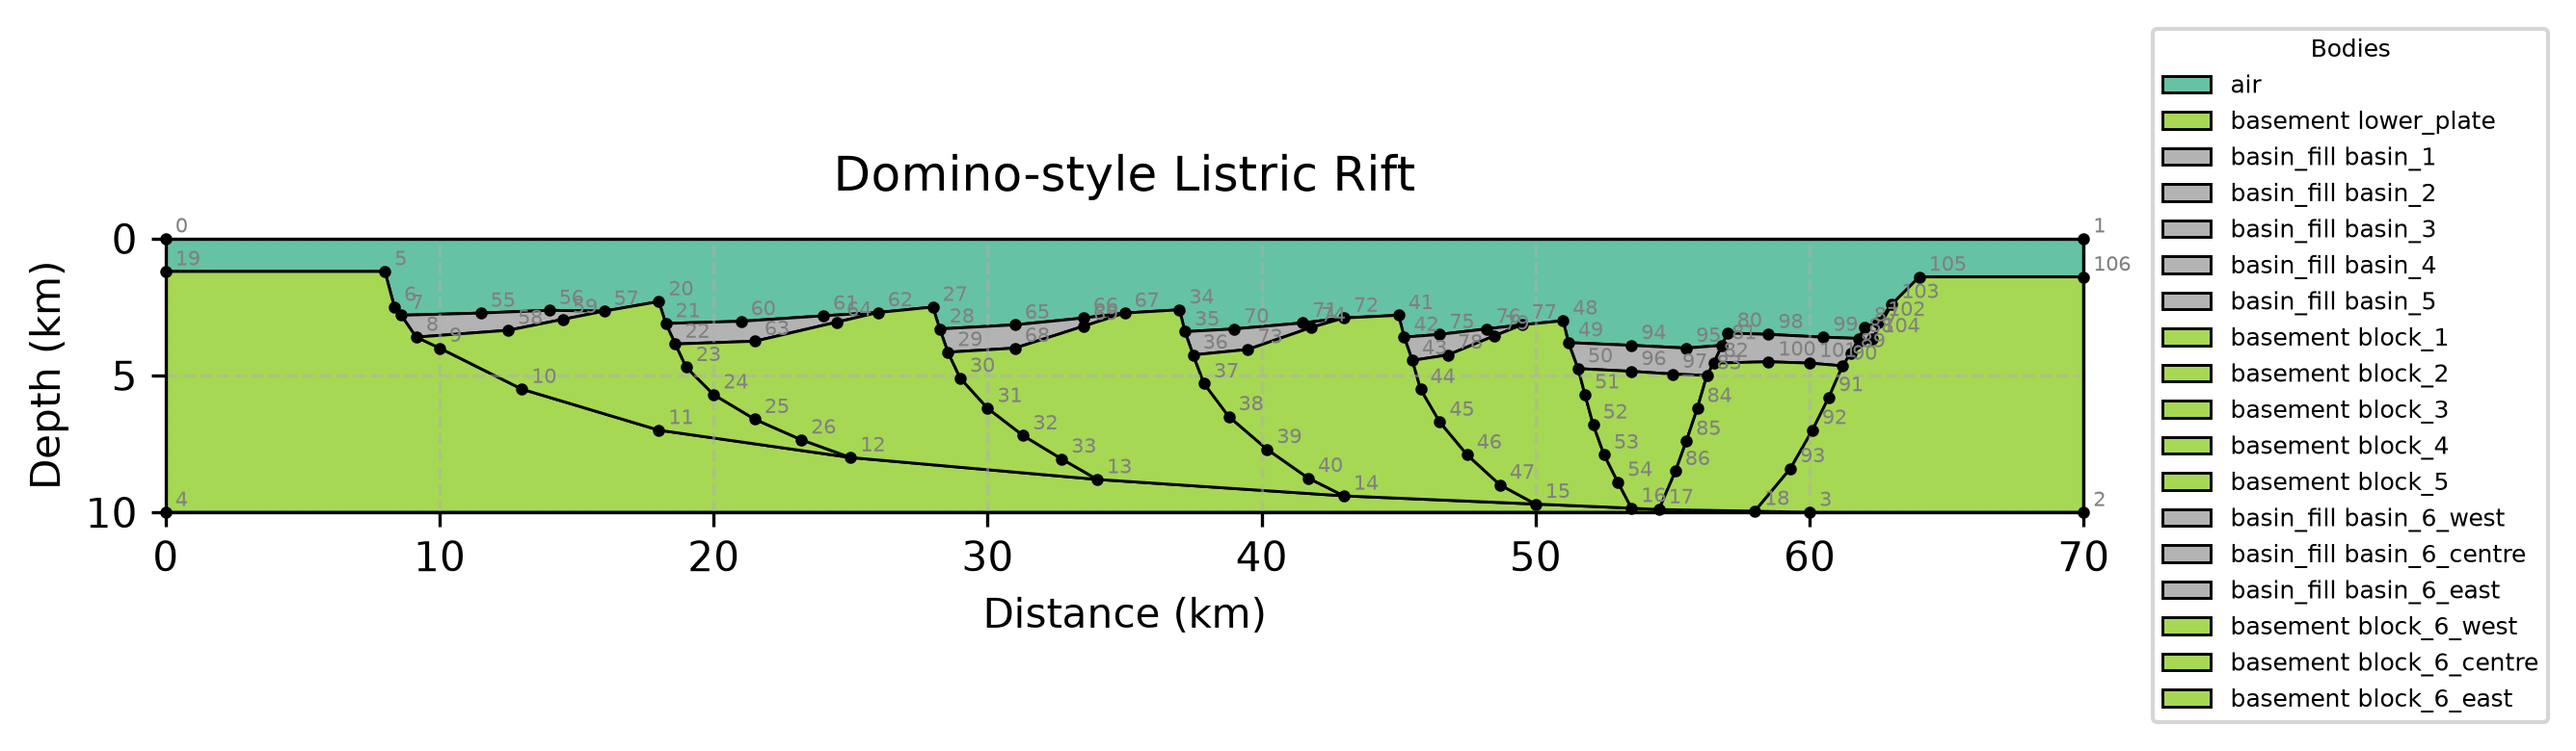
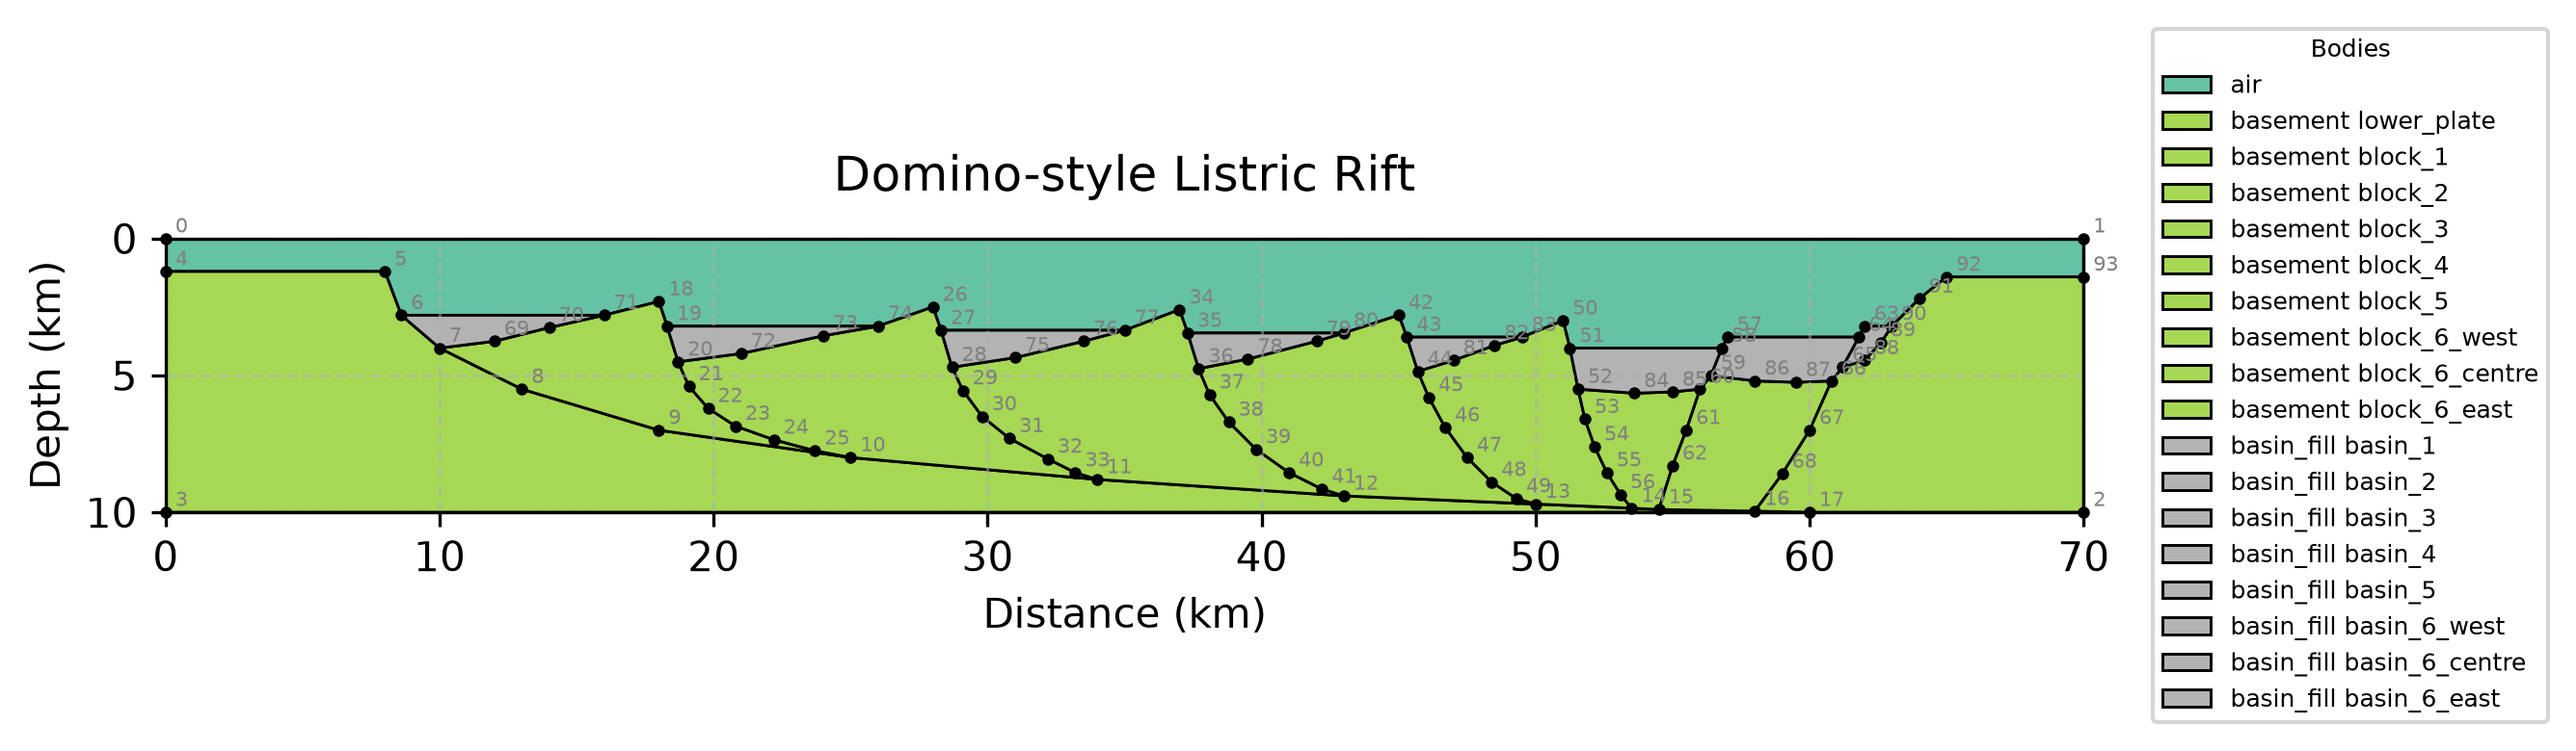
updated description of domino rift example

diff --git a/templates.py b/templates.py
@@ -543,19 +543,20 @@ This is a structural-block diagram containing crystalline basement, local syn-ri
 - From x = 8 to about 51 km, make five successive rotated range blocks. Each block top rises gently to the right, then steps downward across the next east-dipping normal fault. This repeated asymmetric sawtooth geometry is essential: gentle rightward-rising block tops alternate with steep fault scarps.
 - Put approximate synthetic-fault surface traces at x = 18, 28, 37, 45, and 51 km. Each hanging wall on the right is downthrown by about 0.7-1.0 km at the surface relative to the footwall on the left.
 - Keep the central sawtooth surface mostly between z = -2.2 and z = -3.6 km. The left breakaway plateau and far-right plateau must be distinctly higher than the central rift floor.
-- From x = 51 to 63 km, form one broad, low half-graben basin with a gently irregular floor near z = -3.2 to -4.0 km. The two antithetic faults cut this basin.
+- From x = 51 to 63 km, form one broad, low half-graben basin whose sediment surface consists of horizontal, fault-offset segments near z = -3.2 to -4.0 km. The two antithetic faults cut this basin.
 - East of x = 63 km, raise the basement surface relatively steeply to a far-right plateau near z = -1.4 km, then keep it approximately flat to x = 70 km.
 - The land surface alternates between the top of sedimentary fill in the half-graben lows and exposed basement on the tilted range crests. The bottom edge of the single `air` polygon must follow every plateau, sediment surface, exposed block top, fault scarp, and right-side rise. Do not smooth away the fault-scarp steps.
 
-## Syn-rift sedimentary basin fill
+## Horizontal syn-rift sedimentary basin fill
 
 - Add exactly SIX local, wedge-shaped syn-rift sediment accumulations: one on the down-dip left side of each rotated hanging-wall block associated with F1 through F6. Do not create a laterally continuous sedimentary blanket across the ranges.
-- Each wedge rests directly on the tilted basement top, is thickest beside the normal fault on its left, and thins progressively to the right until it pinches out onto the crest of the tilted basement block. The basement-sediment contact must rise gently rightward, consistent with block rotation.
+- Each wedge rests directly on the tilted basement top, is thickest beside the normal fault on its left, and thins progressively to the right until it pinches out onto the crest of the tilted basement block. The basement-sediment contact must rise gently rightward, consistent with block rotation. Create the wedge geometry entirely with this inclined basal contact; do not incline the top of the sediment with the rotated basement block.
 - Sediment thickness beside F1-F5 should be approximately 1.0-1.5 km. Make every wedge visually prominent at the full-section scale rather than a thin sliver. Each of the first five wedges should pinch out before reaching the next synthetic fault, leaving a short interval of exposed basement at the up-dip right-hand range crest.
-- Place the approximate rightward pinchouts of `basin_fill^basin_1` through `basin_fill^basin_5` near x = 16, 26, 35, 43, and 49.5 km, respectively. Use at least one intermediate shaping vertex on both the top and basal contact of each wedge so that the sediment surfaces are gently irregular rather than simple triangles.
+- Place the approximate rightward pinchouts of `basin_fill^basin_1` through `basin_fill^basin_5` near x = 16, 26, 35, 43, and 49.5 km, respectively. Use at least one intermediate shaping vertex along the basal contact so that each wedge follows the tilted basement rather than becoming a simple triangle.
+- The sediment-air contact at the top of every uninterrupted basin-fill polygon must be exactly horizontal and parallel to sea level at z = 0. All vertices along that top contact must have the same z coordinate. Different half-grabens may have different horizontal top elevations, and faults may produce vertical steps between adjacent sediment polygons, but no sediment top segment may slope or follow the rotated basement.
 - At the left edge of each wedge, the top is the downthrown land surface and its base meets a deeper vertex on the corresponding fault. Therefore, the upper segment of each normal fault forms the steep left boundary of its basin fill and remains visibly continuous into basement below.
 - The sixth accumulation, `basin_fill^basin_6`, occupies the broad half-graben from the F6 hanging wall near x = 51 km to the rising eastern margin near x = 63 km. It should be approximately 1.2-1.8 km thick, remain clearly visible across all three antithetically faulted parts, and not cover the high far-right plateau.
-- A1 and A2 cut completely through the sixth sediment accumulation before continuing through basement to F1. Split this fill into `basin_fill^basin_6_west`, `basin_fill^basin_6_centre`, and `basin_fill^basin_6_east`; reuse every A1 and A2 vertex that lies within the sediment in the adjacent fill polygons. Preserve the smaller normal offsets across both antithetic faults.
+- A1 and A2 cut completely through the sixth sediment accumulation before continuing through basement to F1. Split this fill into `basin_fill^basin_6_west`, `basin_fill^basin_6_centre`, and `basin_fill^basin_6_east`; reuse every A1 and A2 vertex that lies within the sediment in the adjacent fill polygons. Preserve the smaller normal offsets across both antithetic faults. Keep the top of each of these three polygons horizontal; represent any surface displacement as a vertical step at the fault, never as an inclined sediment top.
 - Basin fill must never occupy the lower plate, cover the left breakaway plateau, or cover the exposed crests of the five central tilted blocks. Do not add internal sediment layers: the reference shows one basin-fill unit repeated in separate half-grabens.
 
 ## Six linked east-dipping listric normal faults
@@ -599,7 +600,7 @@ Treat the following as a hard count: there must be exactly SIX east-dipping list
 - Where a fault passes through or bounds basin fill, its upper vertices must instead be shared by the adjacent `basin_fill^...` and/or `basement^...` polygons as required. Every fault must remain visible from its land-surface trace to its specified junction or base termination. Adjacent polygons must reuse all intermediate fault vertices, not merely the two endpoints.
 - Use separate vertices for the top and bottom of each surface scarp; identical coordinate pairs are forbidden.
 - Keep all polygons simple and clockwise, and use every declared vertex in at least one polygon.
-- Visual priority, in order: (1) exactly six smooth, linked east-dipping listric faults; (2) exactly two west-dipping antithetic faults on the right; (3) six wedge-shaped sediment fills thickening leftward toward their bounding faults and pinching out on tilted basement crests; (4) the repeated tilted-block sawtooth topography; (5) the high left and right plateaus and lower central rift basin; (6) complete rectangular coverage by air, basin fill, and fault-split basement.
+- Visual priority, in order: (1) exactly six smooth, linked east-dipping listric faults; (2) exactly two west-dipping antithetic faults on the right; (3) six wedge-shaped sediment fills with horizontal, sea-level-parallel top contacts that thicken leftward only because their basal contacts are inclined; (4) the repeated tilted-block sawtooth topography; (5) the high left and right plateaus and lower central rift basin; (6) complete rectangular coverage by air, basin fill, and fault-split basement.
 """,
 
     "Syn-rift Half-graben": """# Syn-rift Half-graben Cross Section
